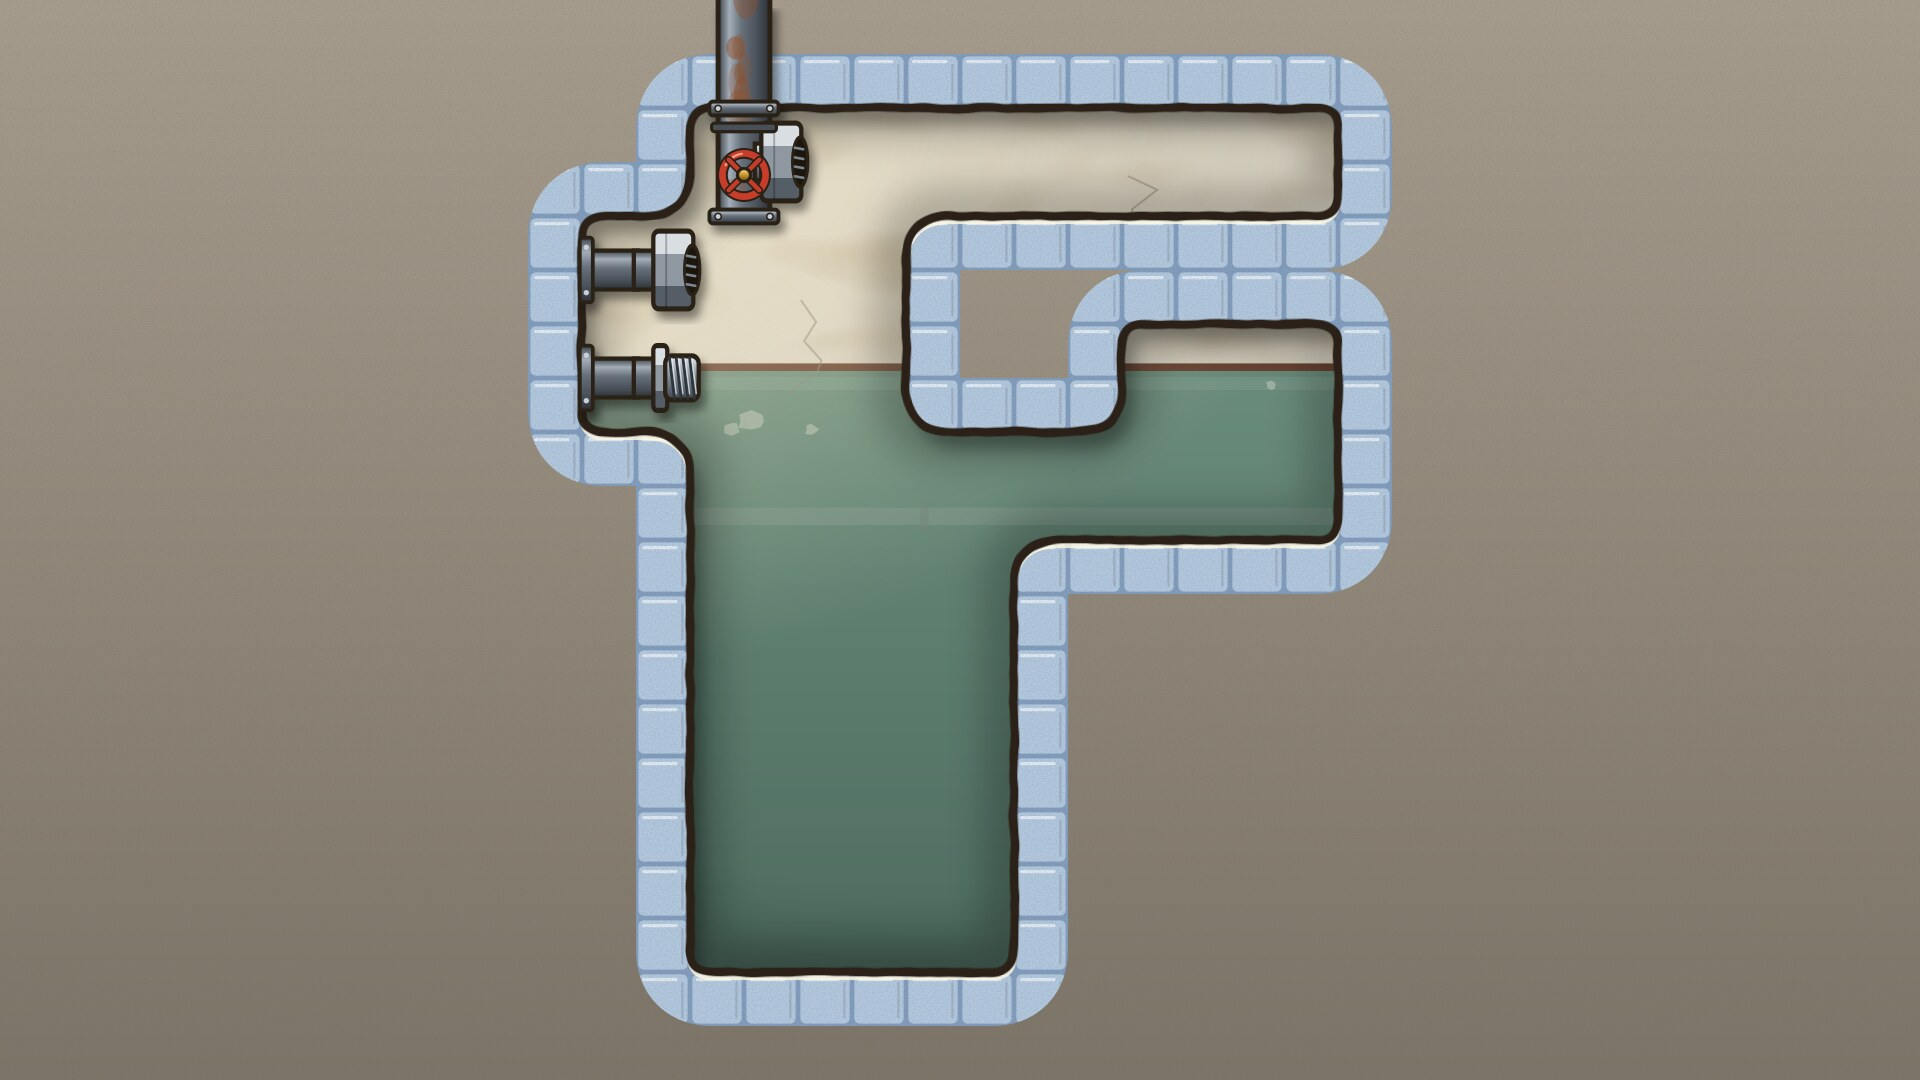
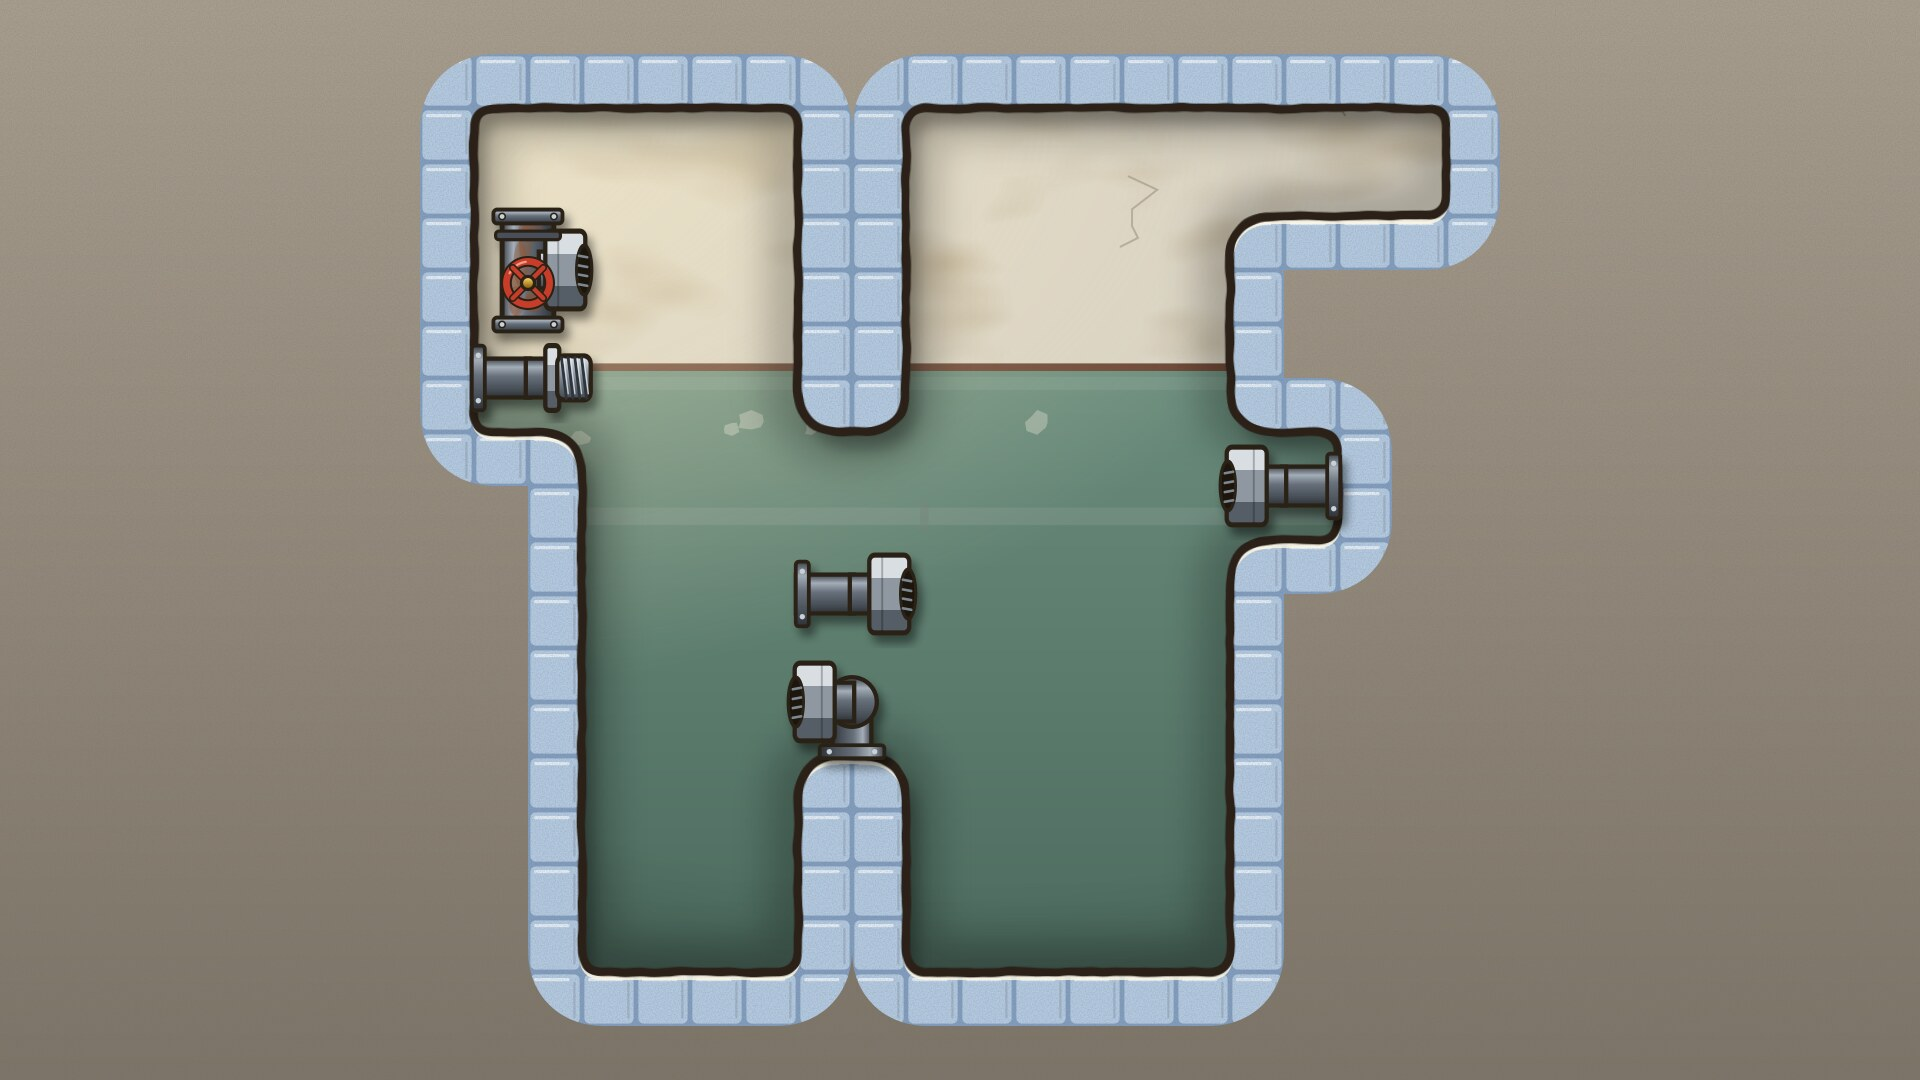
Кв. 2 «Скалолаз»: новое ядро «крюк — точка отсчёта» (k6 после слепой проверки), 20 ходов, 71 % скрытых; фон и отчёты
Claude-Session: https://claude.ai/code/session_01KTF9zcDbthXae1taWntBSd

Changed region(s): [[0.2188, 0.0, 0.7812, 0.9472]]

diff --git a/reports/metrics.md b/reports/metrics.md
@@ -7,7 +7,7 @@
 | № | Уровень | Поле | Длина | Напор | Состояний | Мин. ходов (коридор) | Тупиков | Ложных веток | Выигрышных конфигураций | Наобум (≤ 1 %) | Кратчайших (ширина ≤ 3) | Абляции | Итог |
 | --- | --- | --- | --- | --- | --- | --- | --- | --- | --- | --- | --- | --- | --- |
 | 1 | «Не той стороной» | 9×7 | 2–4 | 0 | 211 (≤ 20000) | 15 (15–40) | 38.4% (≥ 25%) | 0 (≥ 1) | 1 | 0.76 % | 3 (3) | без крюка: нерешаем ✓; крюк без крепления: нерешаем ✓ | ⚠ мало ложных веток |
-| 2 | «Скалолаз» | 9×10 | 2–4 | 0 | 172 (≤ 50000) | 19 (15–40) | 53.5% (≥ 30%) | 13 (≥ 2) | 1 | 0 % | 1 (1) | крючья замурованы: нерешаем ✓; резьба крючьев: нерешаем ✓ | ✅ |
+| 2 | «Скалолаз» | 11×10 | 2–4 | 0 | 215 (≤ 50000) | 20 (15–40) | 70.7% (≥ 25%) | 11 (≥ 0) | 1 | 0 % | 1 (1) | замурован только крюк ряда лаза: нерешаем ✓; замурован только якорь шахты: нерешаем ✓; зацепиться на лету нельзя: нерешаем ✓ | ✅ |
 | 3 | «Мыло» | 11×8 | 2–5 | 0 | 4017 (≤ 100000) | 32 (15–40) | 82.6% (≥ 35%) | 6 (≥ 2) | 1 | 0 % | 6 (3) | без фаянса: нерешаем ✓; подставку не выбить: нерешаем ✓; мыло на мыло не ляжет: нерешаем ✓; мост запрещён: нерешаем ✓; подъёмник запрещён: нерешаем ✓ | ✅ |
 | 4 | «Резьба» | 9×8 | 2–4 | 0 | 6176 (≤ 300000) | 16 (15–40) | 78.8% (≥ 40%) | 4 (≥ 2) | 1 | 0.03 % | 3 (3) | без муфты: нерешаем ✓; без ниппеля: нерешаем ✓; сборка заранее: нерешаем ✓; по одной нельзя: нерешаем ✓ | ✅ |
 | 5 | «Лишний выход» | 9×7 | 2–4 | 0 | 1682 (≤ 100000) | 15 (15–40) | 41.7% (≥ 35%) | 1 (≥ 1) | 1 | 0.05 % | 1 (1) | без заглушки: нерешаем ✓; тройник заглушён заранее: нерешаем ✓; ступенька запрещена: нерешаем ✓ | ✅ |

diff --git a/build/p3/REVIEW.md b/build/p3/REVIEW.md
@@ -92,3 +92,9 @@
 - **Новые ворота (30.09), после трёх пар «автор — скептик»:** «двери» (входы в скрытые с пути в обеих половинах; check.lua теперь
   печатает их) и «замуровка» (цифра считается без мёртвого пространства). Оговорка: принятая кв. 6 по «дверям» тоже не проходит
   (все входы на шагах 4–9 из 23) — не переоткрываю сейчас, записано как долг.
+- **Кв. 2 установлена (30.09): build/l2e/k6.lua → levels/02.lua.** «Ага» своё, M2+M3: «крюк — точка отсчёта, от него дотягиваешься
+  ровно на длину; пускает крюк нужного ряда, а не ближний» — применено дважды. 20 ходов, 71 % скрытых по мерке «больше не
+  зацепится» (устойчиво к карману), двери в обеих половинах, обезьяна 0 %, три узкие абляции. Скептик (build/l2v3): near —
+  ставить: лучше прежней и k4 по всем пунктам. Долг: двери второй половины — исполнение, не выбор (второй выбор якоря в
+  2–3 ходах от пути); ошибка подсказки вскрывается за 0–2 хода; «яма глубже досягаемости» переносима в Snakebird.
+  Автопрохождение WIN 20; фон lvl02 перерисован.

diff --git a/WALKTHROUGH_SPOILERS.md b/WALKTHROUGH_SPOILERS.md
@@ -7,10 +7,10 @@
 1. Г↑  2. Г→  3. Г→  4. Г→  5. Г↓  6. Г←  7. Н→  8. Н↓  9. Н→  10. Н↑  
 11. Г→  12. Н↑  13. Н→  14. Г↑  15. Г→  
 
-## Кв. 2 · «Скалолаз» — 19 ходов
+## Кв. 2 · «Скалолаз» — 20 ходов
 
-1. Н→  2. Н↑  3. Г←  4. Г←  5. Г←  6. Г←  7. Г↑  8. Г←  9. Н←  10. Н↑  
-11. Н↑  12. Н←  13. Г→  14. Г↑  15. Г↑  16. Г→  17. Н→  18. Г→  19. Г→  
+1. Н←  2. Н←  3. Н↓  4. Н→  5. Г←  6. Г↓  7. Г←  8. Г←  9. Н←  10. Г←  
+11. Г↑  12. Г←  13. Н←  14. Н↑  15. Н↑  16. Н←  17. Г→  18. Г↑  19. Г↑  20. Г←  
 
 ## Кв. 3 · «Мыло» — 32 ходов
 
